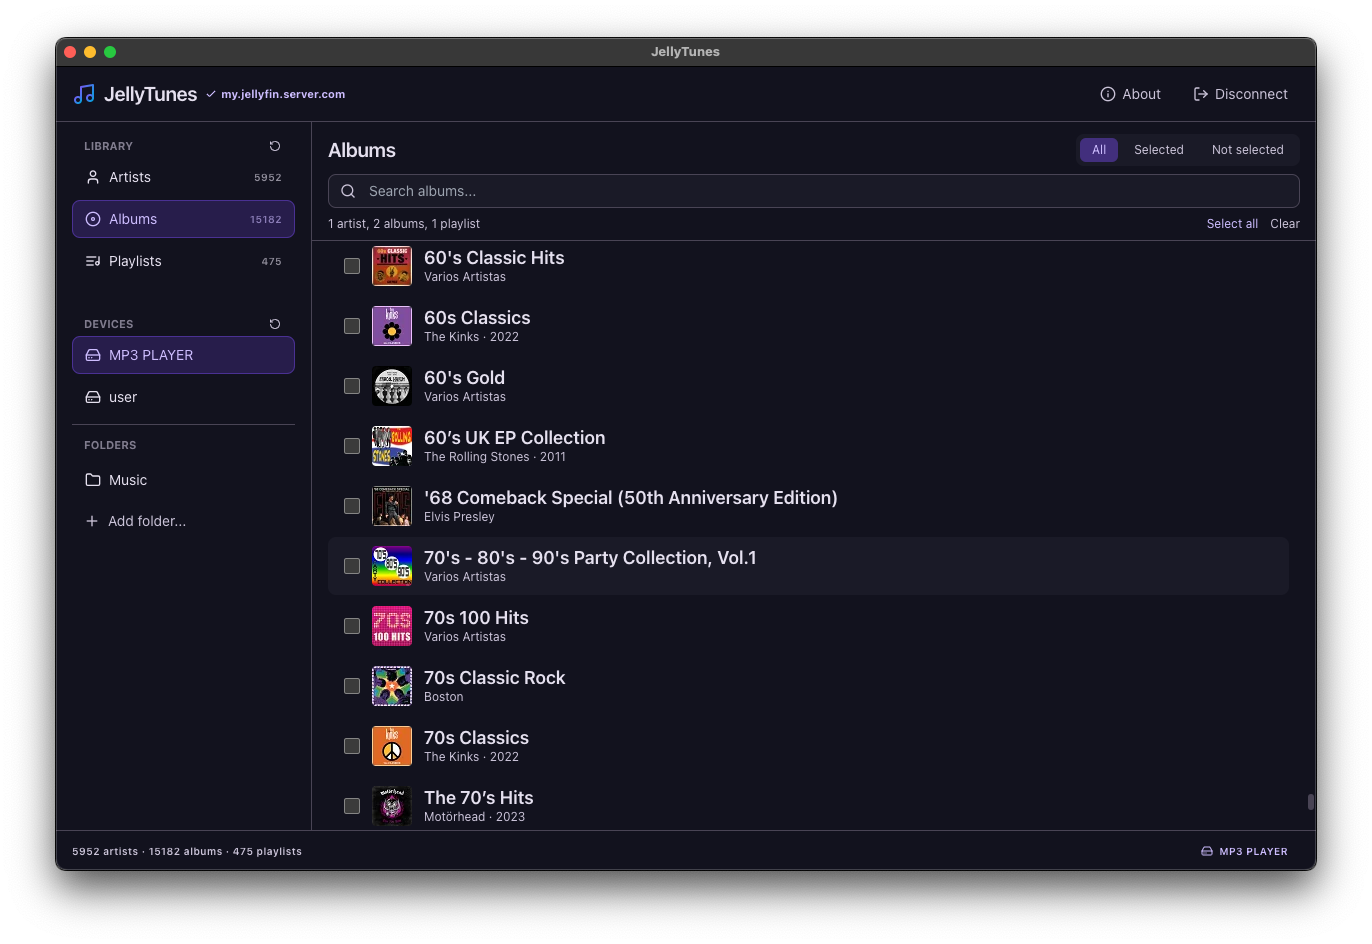
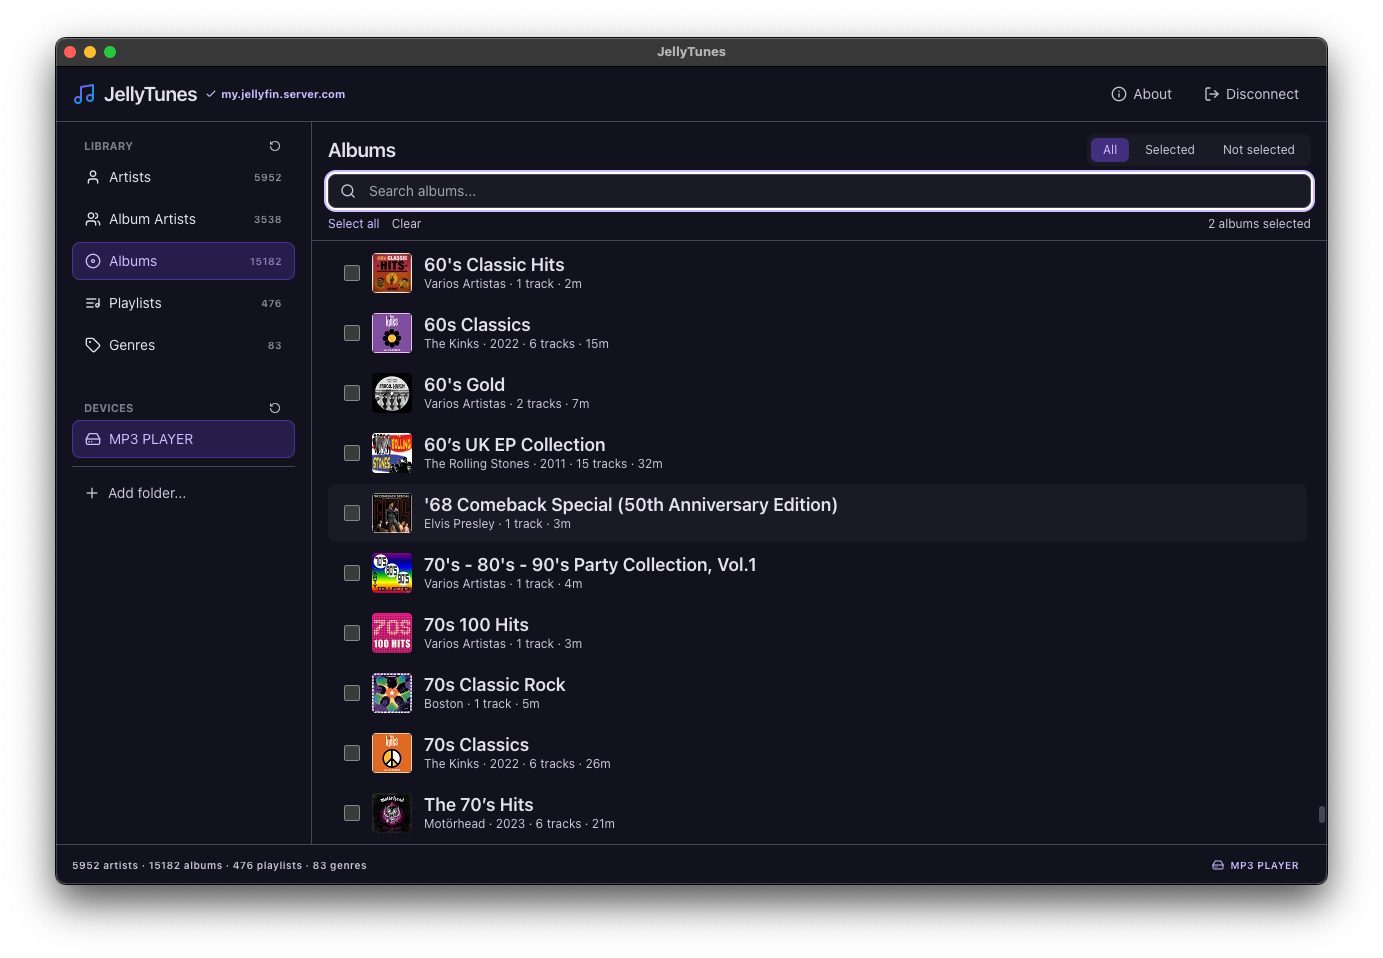
chore: update README. [skip ci]

Changed region(s): [[0.0306, 0.0307, 0.9796, 0.8909], [0.0306, 0.8602, 0.2755, 0.9216], [0.8571, 0.8909, 0.949, 0.9216]]

diff --git a/README.md b/README.md
@@ -20,16 +20,19 @@
 
 ---
 
-JellyTunes is a desktop app for [Jellyfin](https://jellyfin.org) users who want to take their music offline. Browse your server's artists, albums, and playlists, pick a destination — a USB drive, SD card, or any local folder — and hit sync. JellyTunes downloads everything, converts formats if needed, and mirrors your server's folder structure at the destination.
+JellyTunes is a desktop app for [Jellyfin](https://jellyfin.org) users who want to take their music offline. Browse your server's artists, album artists, albums, playlists, and genres, pick a destination — a USB drive, SD card, or any local folder — and hit sync. JellyTunes downloads everything, converts formats if needed, embeds lyrics and cover art, and mirrors your server's folder structure at the destination.
 
 ## Key Features
 
-- **Browse your full library** — artists, albums, and playlists pulled directly from your Jellyfin server
+- **Browse your full library** — artists, album artists, albums, playlists, and genres pulled directly from your Jellyfin server
 - **Sync anywhere** — USB drives, SD cards, and local folders all work as destinations
 - **Selective sync** — only downloads what's new or changed; skips tracks already at the destination
 - **Out-of-sync detection** — tracks that changed on the server since the last sync are automatically flagged for update
-- **Sync preview** — review exactly what will be added, updated, or removed before you commit to a sync
+- **Sync preview** — a three-column breakdown of exactly what will be added, updated, or removed — with per-category track count, size, and duration — before you commit to a sync
 - **FLAC to MP3 conversion** — built-in FFmpeg support with configurable bitrate (128k / 192k / 320k); settings saved per device
+- **Lyrics sync** — download `.lrc` sidecar files or embed lyrics directly into tracks (supports Jellyfin 10.9+ JSON lyrics); mode is configurable per device
+- **Cover art modes** — embed cover art into each track or write companion `cover.jpg` files; chosen per device and persisted
+- **ReplayGain tags** — ReplayGain metadata from Jellyfin is embedded into synced tracks for consistent playback volume
 - **Smart storage bar** — visual capacity indicator with live size estimates; warns when your selection exceeds free space
 - **Smart filesystem handling** — auto-detects FAT32, exFAT, and NTFS; sanitizes filenames accordingly
 - **Per-destination history** — remembers what was synced to each device or folder so you can pick up where you left off
@@ -40,10 +43,19 @@ JellyTunes is a desktop app for [Jellyfin](https://jellyfin.org) users who want 
 <p align="center">
   <a href="assets/screenshot-albums.png"><img src="assets/screenshot-albums.png" alt="Browse your Jellyfin library" width="400" /></a>
   &nbsp;&nbsp;
-  <a href="assets/screenshot-sync.png"><img src="assets/screenshot-sync.png" alt="Sync to device with MP3 conversion" width="400" /></a>
+  <a href="assets/screenshot-device.png"><img src="assets/screenshot-device.png" alt="Pick a destination device or folder" width="400" /></a>
 </p>
 <p align="center">
-  <em>Browse your library &nbsp;·&nbsp; Sync to any device with optional MP3 conversion</em>
+  <em>Browse your library &nbsp;·&nbsp; Pick a destination device or folder</em>
+</p>
+
+<p align="center">
+  <a href="assets/screenshot-sync-preview.png"><img src="assets/screenshot-sync-preview.png" alt="Review the sync preview before syncing" width="400" /></a>
+  &nbsp;&nbsp;
+  <a href="assets/screenshot-syncing.png"><img src="assets/screenshot-syncing.png" alt="Sync in progress with phase-aware progress" width="400" /></a>
+</p>
+<p align="center">
+  <em>Review what will change &nbsp;·&nbsp; Sync with live, phase-aware progress</em>
 </p>
 
 ## Installation
@@ -75,6 +87,16 @@ Then open the app normally.
 1. Try to open the app (it will be blocked)
 2. Go to **System Settings → Privacy & Security → Security**
 3. Click **"Open Anyway"** next to the JellyTunes entry
+
+### Windows: "Windows protected your PC" (SmartScreen)
+
+JellyTunes is not signed with a code-signing certificate, so Windows SmartScreen may show a blue **"Windows protected your PC"** warning the first time you run the installer. To proceed:
+
+1. Click **"More info"** on the warning dialog
+2. Click the **"Run anyway"** button that appears
+3. Continue through the installer as normal
+
+This only happens on first run.
 
 ### Prerequisites
 